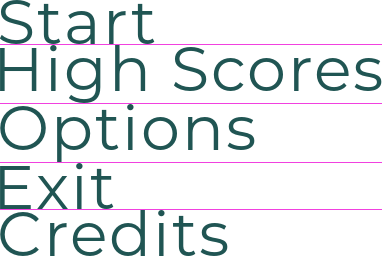
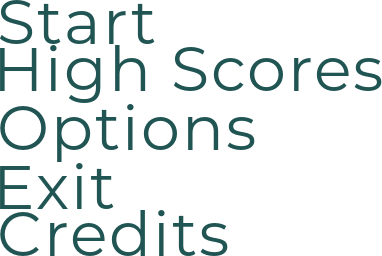
Update font menu images to remove pink border as it was being included during Texture Filtering. Use hint for best render scale quality

diff --git a/Video.cpp b/Video.cpp
@@ -45,7 +45,7 @@ spriteBackground{Sprite()},
 spriteBackgroundfadeout{Sprite()}
 {
     SDL_SetHint(SDL_HINT_RENDER_LOGICAL_SIZE_MODE, "1");
-    SDL_SetHint(SDL_HINT_RENDER_SCALE_QUALITY, "0");
+    SDL_SetHint(SDL_HINT_RENDER_SCALE_QUALITY, "2");
     init();
     
 }
